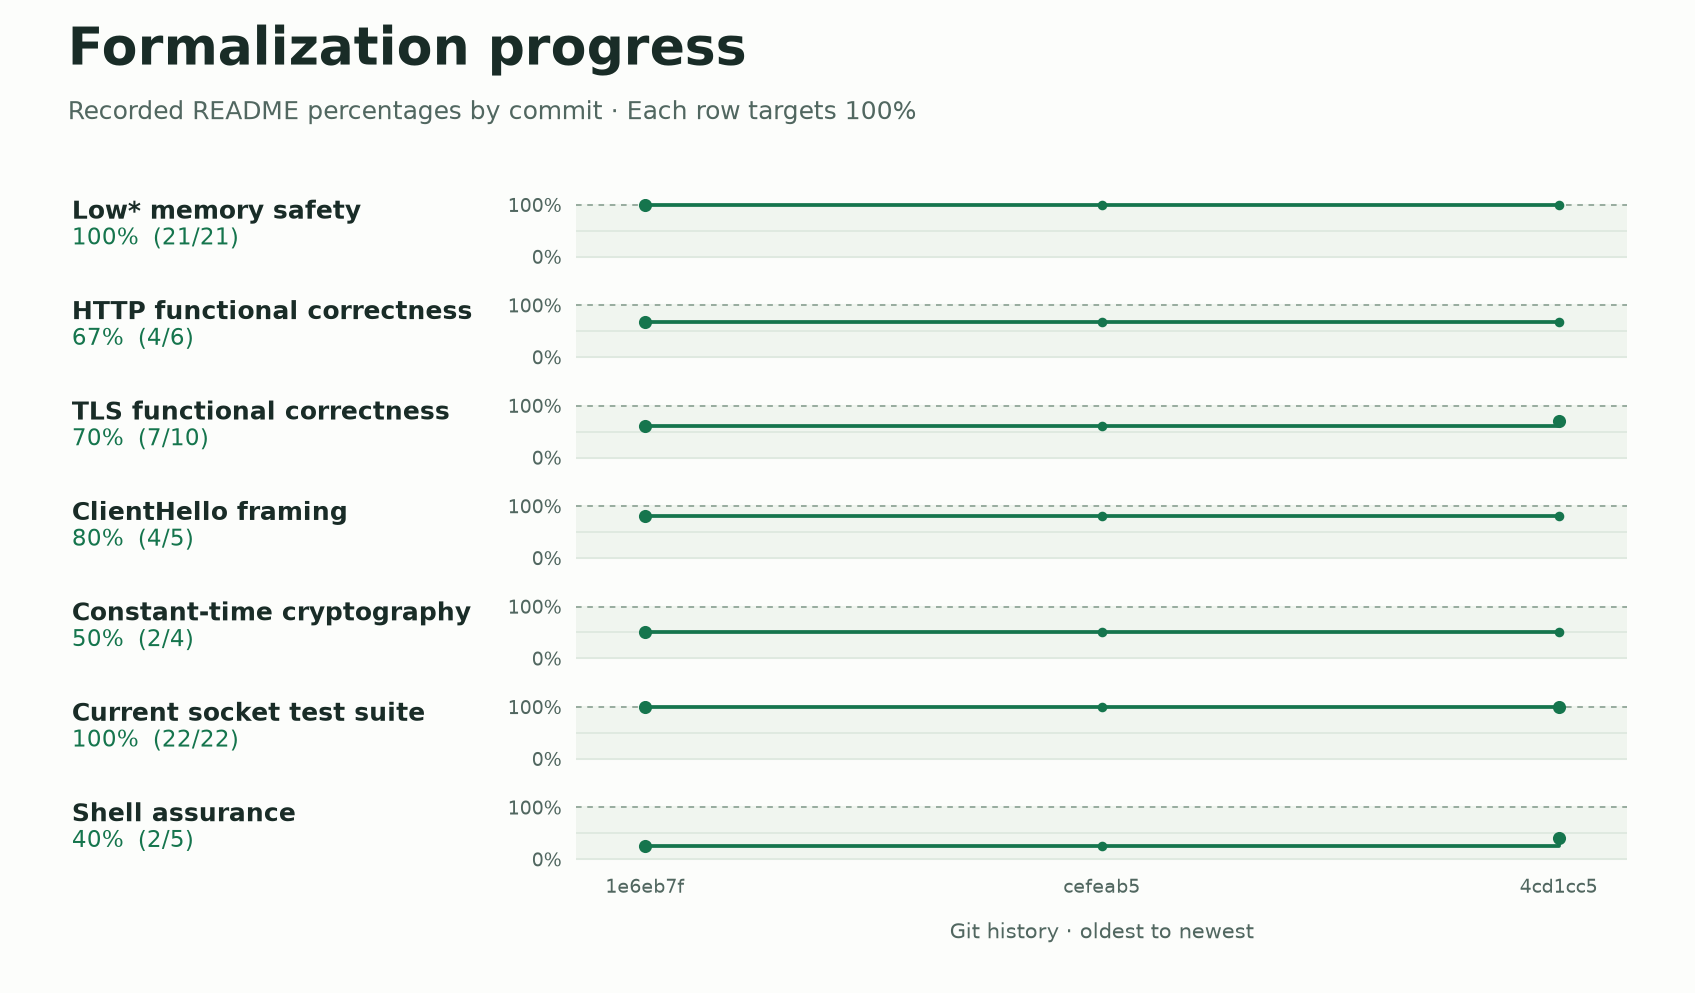
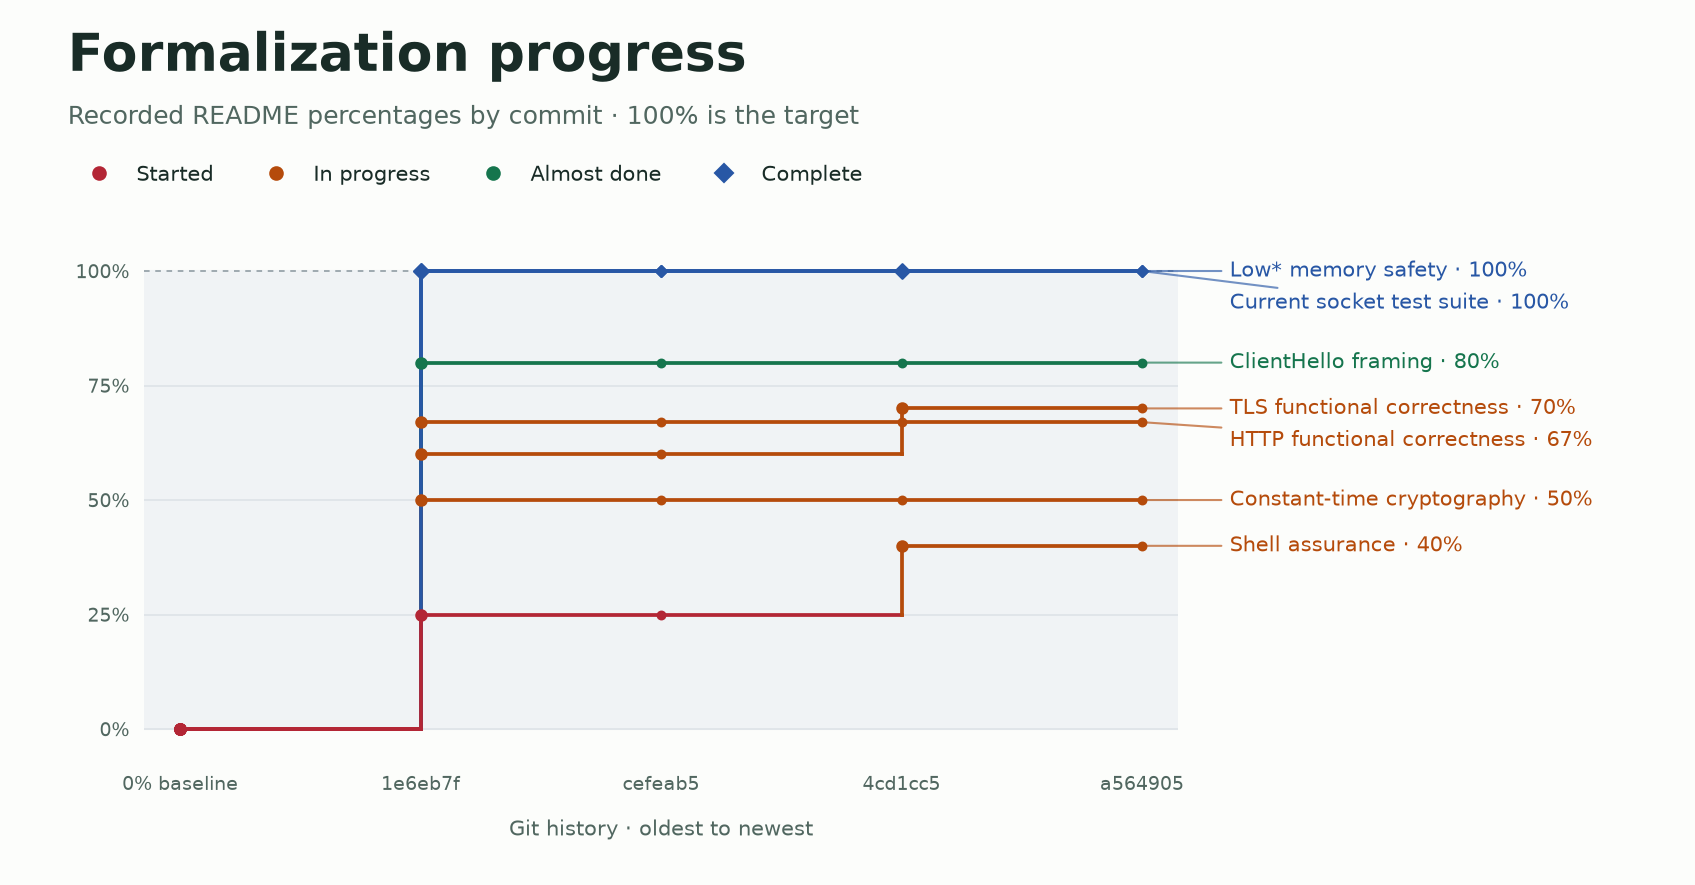
Combine formalization metrics in a status-colored chart

diff --git a/tools/plot_progress.py b/tools/plot_progress.py
@@ -1,6 +1,7 @@
 #!/usr/bin/env python3
 """Plot the README's recorded formalization progress from Git history."""
 
+import argparse
 import math
 import re
 import subprocess
@@ -10,11 +11,17 @@ import matplotlib
 
 matplotlib.use("Agg")
 import matplotlib.pyplot as plt
+from matplotlib.lines import Line2D
 
 
 ROOT = Path(__file__).resolve().parents[1]
 PROGRESS = re.compile(r"\b(\d{1,3})%\**\s+\((\d+/\d+) (?:milestones|modules|tests)\)")
-GREEN = "#15754d"
+STATUS_STYLES = {
+    "🔴": ("Started", "#b32635", "o"),
+    "🟠": ("In progress", "#b54b0b", "o"),
+    "🟢": ("Almost done", "#15754d", "o"),
+    "🏁": ("Complete", "#2857a5", "D"),
+}
 INK = "#192c27"
 MUTED = "#516760"
 PAPER = "#fcfdfb"
@@ -38,11 +45,14 @@ def progress(readme):
             if label == "C shell assurance":
                 label = "Shell assurance"
             percentage, fraction = match.groups()
-            rows[label] = (int(percentage), fraction)
+            symbol = status.strip()[0]
+            if symbol not in STATUS_STYLES:
+                raise ValueError(f"Unrecognized progress status for {label}: {status.strip()}")
+            rows[label] = (int(percentage), fraction, symbol)
     return rows
 
 
-def history():
+def history(*, committed_only=False):
     snapshots = []
     for commit in git("rev-list", "--reverse", "--first-parent", "HEAD").splitlines():
         if "README.md" in git("ls-tree", "--name-only", commit, "--", "README.md").splitlines():
@@ -53,61 +63,85 @@ def history():
 
     first = next((i for i, (_, rows) in enumerate(snapshots) if rows), len(snapshots))
     snapshots = snapshots[first:]
-    working_tree = progress((ROOT / "README.md").read_text(encoding="utf-8"))
-    if not snapshots or working_tree != snapshots[-1][1]:
-        snapshots.append(("Working tree", working_tree))
+    if not committed_only:
+        working_tree = progress((ROOT / "README.md").read_text(encoding="utf-8"))
+        if not snapshots or working_tree != snapshots[-1][1]:
+            snapshots.append(("Working tree", working_tree))
     return snapshots
 
 
 def draw(snapshots, output):
-    revisions, rows = zip(*snapshots)
-    latest = rows[-1]
-    if not latest:
+    if not snapshots or not snapshots[-1][1]:
         raise SystemExit("No formalization progress rows in README.md")
+    latest = snapshots[-1][1]
+    baseline = dict.fromkeys(latest, (0, "", "🔴"))
+    revisions, rows = zip(("0% baseline", baseline), *snapshots)
 
-    figure, axes = plt.subplots(
-        len(latest), sharex=True, squeeze=False, figsize=(11.3, 2 + 0.66 * len(latest)), facecolor=PAPER
-    )
-    figure.subplots_adjust(left=0.34, right=0.96, bottom=0.13, top=0.80, hspace=0.60)
-    figure.text(0.04, 0.935, "Formalization progress", fontsize=25, weight="bold", color=INK)
-    figure.text(0.04, 0.88, "Recorded README percentages by commit · Each row targets 100%", fontsize=12, color=MUTED)
+    figure, axis = plt.subplots(figsize=(11.3, 5.9), facecolor=PAPER)
+    figure.subplots_adjust(left=0.085, right=0.695, bottom=0.14, top=0.73)
+    figure.text(0.04, 0.92, "Formalization progress", fontsize=25, weight="bold", color=INK)
+    figure.text(0.04, 0.86, "Recorded README percentages by commit · 100% is the target", fontsize=12, color=MUTED)
+    handles = [
+        Line2D([], [], color=color, marker=marker, linestyle="none", label=name)
+        for name, color, marker in STATUS_STYLES.values()
+    ]
+    figure.legend(handles=handles, loc="upper left", bbox_to_anchor=(0.035, 0.835),
+                  frameon=False, ncols=4, fontsize=10, labelcolor=INK)
 
-    pending = revisions[-1] == "Working tree"
-    commit_count = len(revisions) - pending
-    for axis, (label, (latest_percent, latest_fraction)) in zip(axes.flat, latest.items()):
-        values = [snapshot.get(label, (math.nan, None))[0] for snapshot in rows]
-        axis.set_facecolor(PAPER)
-        axis.set_ylim(-9, 112)
-        axis.axhspan(0, 100, color="#f0f5ef", zorder=0)
-        axis.axhline(100, color="#94a99b", linestyle=(0, (3, 3)), linewidth=0.9)
-        axis.axhline(50, color="#dce7dd", linewidth=0.8)
-        axis.axhline(0, color="#dce7dd", linewidth=0.8)
-        axis.step(range(commit_count), values[:commit_count], where="post", color=GREEN, linewidth=1.8)
-        for i, value in enumerate(values[:commit_count]):
-            changed = i == 0 or rows[i].get(label) != rows[i - 1].get(label)
-            axis.scatter(i, value, s=28 if changed else 13, color=GREEN, zorder=3)
-        if pending:
-            if commit_count:
-                axis.step([commit_count - 1, commit_count], values[-2:], where="post",
-                          color=GREEN, linewidth=1.4, linestyle="--")
-            axis.scatter(commit_count, values[-1], s=30, facecolors=PAPER, edgecolors=GREEN, zorder=3)
+    axis.set_facecolor(PAPER)
+    axis.set_ylim(-7, 107)
+    axis.axhspan(0, 100, color="#f0f3f5", zorder=0)
+    axis.axhline(100, color="#9ba7ad", linestyle=(0, (3, 3)), linewidth=0.9)
+    for percent in (0, 25, 50, 75):
+        axis.axhline(percent, color="#dde3e7", linewidth=0.8)
 
-        axis.text(-0.48, 0.68, label, transform=axis.transAxes, color=INK, fontsize=12, weight="bold")
-        axis.text(-0.48, 0.27, f"{latest_percent}%  ({latest_fraction})", transform=axis.transAxes, color=GREEN, fontsize=11)
-        axis.set_yticks([0, 100], labels=["0%", "100%"])
-        axis.tick_params(axis="both", length=0, labelsize=9, colors=MUTED, pad=7)
-        axis.spines[:].set_visible(False)
+    for label in latest:
+        for i, (revision, snapshot) in enumerate(zip(revisions, rows)):
+            point = snapshot.get(label)
+            if point is None:
+                continue
+            percent, _, status = point
+            _, color, marker = STATUS_STYLES[status]
+            pending = revision == "Working tree"
+            previous = rows[i - 1].get(label) if i else None
+            if previous is not None:
+                previous_percent, _, previous_status = previous
+                style = "--" if pending else "-"
+                axis.plot([i - 1, i], [previous_percent, previous_percent], linestyle=style,
+                          color=STATUS_STYLES[previous_status][1], linewidth=1.8)
+                axis.plot([i, i], [previous_percent, percent], linestyle=style, color=color, linewidth=1.8)
+            axis.scatter(i, percent, s=25 if point != previous or pending else 14, marker=marker,
+                         facecolors=PAPER if pending else color, edgecolors=color, zorder=3)
 
     last = len(revisions) - 1
+    ordered = sorted(latest.items(), key=lambda item: item[1][0], reverse=True)
+    label_y = 107
+    for i, (label, (percent, _, status)) in enumerate(ordered):
+        # Keep labels readable when several traces end at the same percentage.
+        minimum = 7 * (len(ordered) - i - 1)
+        label_y = max(minimum, min(percent, label_y - 7))
+        _, color, _ = STATUS_STYLES[status]
+        axis.annotate(
+            f"{label} · {percent}%", xy=(last, percent), xytext=(1.05, label_y),
+            textcoords=axis.get_yaxis_transform(), va="center", color=color, fontsize=10,
+            arrowprops={"arrowstyle": "-", "color": color, "linewidth": 1, "alpha": 0.65},
+        )
+
     stride = max(1, math.ceil(last / 9))
     ticks = [*range(0, last - stride + 1, stride), last]
-    axis = axes[-1, 0]
     axis.set_xlim(-0.15, len(revisions) - 0.85)
+    levels = [0, 25, 50, 75, 100]
+    axis.set_yticks(levels, labels=[f"{level}%" for level in levels])
     axis.set_xticks(ticks, labels=[revisions[i] for i in ticks])
+    axis.tick_params(axis="both", length=0, labelsize=9, colors=MUTED, pad=7)
+    axis.spines[:].set_visible(False)
     axis.set_xlabel("Git history · oldest to newest", color=MUTED, fontsize=10, labelpad=12)
     figure.savefig(output, dpi=150, metadata={"Software": "tools/plot_progress.py"})
     plt.close(figure)
 
 
 if __name__ == "__main__":
-    draw(history(), ROOT / "docs/progress.png")
+    parser = argparse.ArgumentParser(description=__doc__)
+    parser.add_argument("--committed-only", action="store_true", help="exclude working-tree README values")
+    args = parser.parse_args()
+    draw(history(committed_only=args.committed_only), ROOT / "docs/progress.png")

diff --git a/README.md b/README.md
@@ -26,9 +26,9 @@ In-process fuzzing checks output bounds across 400,000 HTTP and 100,000 TLS inpu
 
 ### Formalization progress by commit
 
-![Seven formalization metrics tracked by commit on a 0–100% scale](docs/progress.png)
+![Seven formalization metrics on one chart, with a red 0% baseline and markers colored by README status](docs/progress.png)
 
-The chart starts with the first commit that recorded these percentages. Filled markers show committed README values and hollow markers show the working tree. The Rust migration expanded the shell roadmap from four to five milestones. Regenerate with `python3 tools/plot_progress.py` using Matplotlib.
+The red 0% baseline is a starting reference. Each commit uses the percentage and status recorded in its README, beginning with the first progress table. Blue diamonds mark completed areas. Hollow markers show working-tree values when included. The Rust migration expanded the shell roadmap from four to five milestones. Regenerate the published view with `python3 tools/plot_progress.py --committed-only` using Matplotlib.
 
 ## Defense in depth
 
